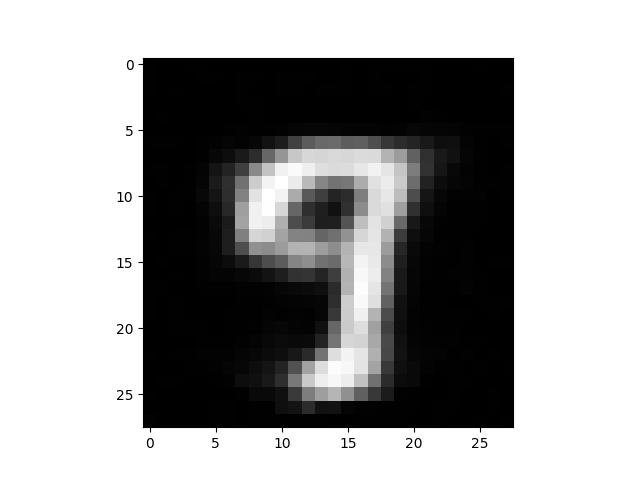
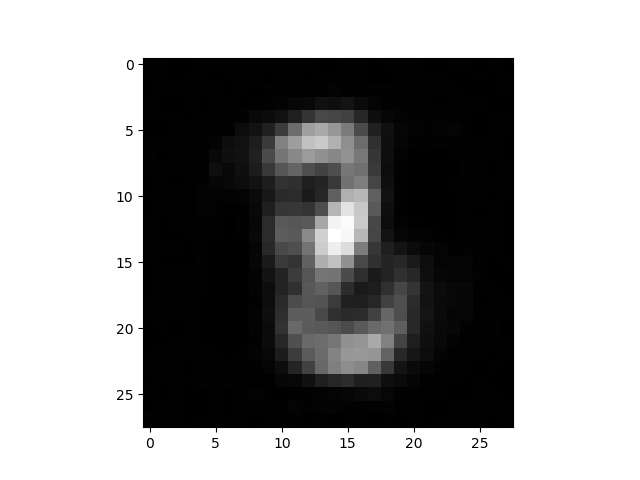
added more images

Changed region(s): [[0.3438, 0.2188, 0.7188, 0.875], [0.5312, 0.9062, 0.5625, 0.9375]]

diff --git a/algorithm3.py b/algorithm3.py
@@ -25,7 +25,7 @@ from algorithm1 import *
 model = VAE(784,400,20)
 load_model()
 
-T = 12
+T = 1
 dt = 1.0 / T
 
 def initial_velocity(z0):
